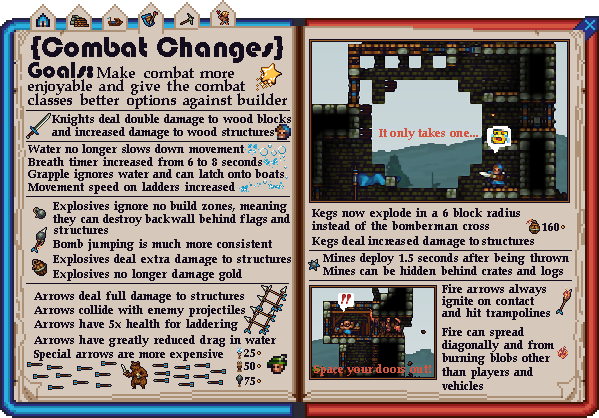
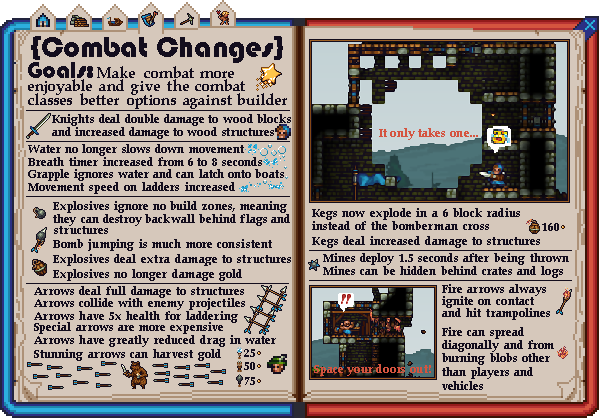
Archer Gold Harvesting
Archers can harvest gold with arrows that stun

Changed region(s): [[0.0601, 0.6842, 0.4207, 0.8086], [0.571, 0.5598, 0.9015, 0.5909], [0.0601, 0.8397, 0.3606, 0.8708]]

diff --git a/README.md b/README.md
@@ -91,6 +91,7 @@ DISCLAIMER: Developed without compatibility with other mods in mind, so there's 
 - Grapple no longer pulls objects
 - Fixed charge getting stuck when jabbed
 - Can no longer harvest arrows mid-air
+- Can harvest gold with arrows that stun
 
 ### Stomp
 - Added bullet stomps (thanks bunnie!)
@@ -577,6 +578,7 @@ DISCLAIMER: Developed without compatibility with other mods in mind, so there's 
 - No longer collide with friendly bridges
 - Stack and resupplied to 50 instead of 30
 - Stack size animation adjusted (looks full for longer)
+- Harvest gold on collision if they can stun
 
 ### Water Arrows
 - Cost 25 coins for 1 instead of 15
